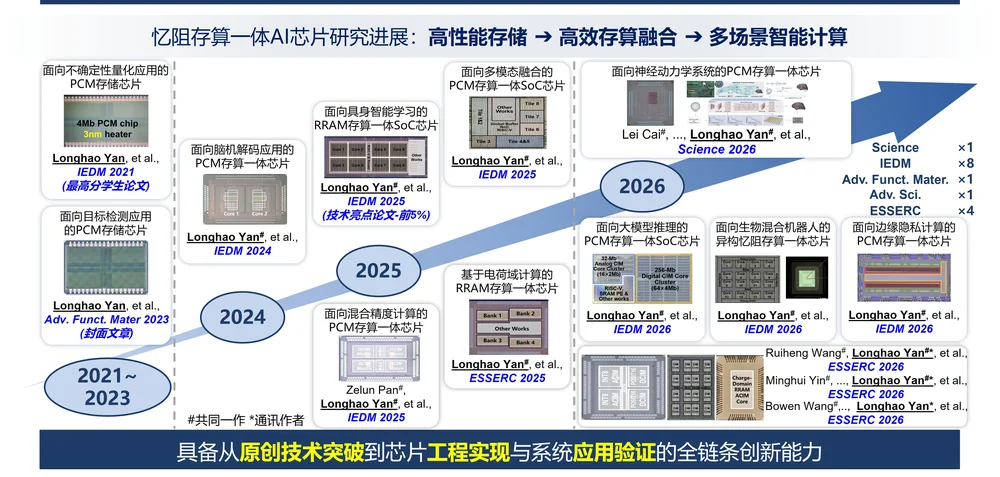
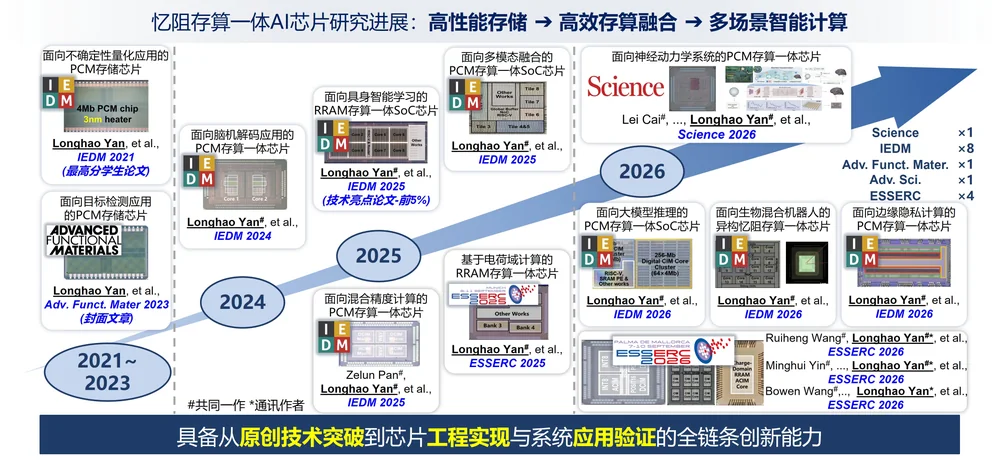
Deploy updated research progress graphic

diff --git a/index.html b/index.html
@@ -143,7 +143,7 @@
           <div class="about-more" id="about-more" hidden>
             <p data-i18n="aboutParagraph2">相关研究成果持续获得学术界和工业界认可。本人在微电子领域旗舰会议 IEDM 上以第一作者（含共同）发表或已接收 8 篇论文，获选 Top Ranked Student Paper（IEDM 2021）、Technical Highlight（IEDM 2025）和 Best Paper Award Finalist（ICTA 2025）。《科学》杂志高度评价神经动力学工作“代表了一种物理驱动计算的理念转变”（Science 2026）。相关合作工作入选智源人工智能研究院发布的“2020 年人工智能十大进展”（IEDM 2020），被《Nature Reviews Electrical Engineering》权威综述列为存内计算硬件感知神经架构搜索的代表性框架（Sci. China Inf. Sci. 2021），被 IBM Research &amp; IEEE Fellow 的 Abu Sebastian 教授列为存内动力学计算的典型技术案例（Adv. Mater. 2022）。与华为合作研究成果获得华为计算产品线最佳技术合作奖（MICRO 2024）。</p>
             <figure class="about-progress">
-              <img data-about-progress-image data-src="assets/images/about/research-progress.webp?v=2" data-src-mobile="assets/images/about/research-progress-1000.webp?v=2" alt="忆阻存算一体 AI 芯片研究进展" data-i18n-alt="aboutProgressAlt" width="2000" height="954" loading="lazy" decoding="async">
+              <img data-about-progress-image data-src="assets/images/about/research-progress.webp?v=3" data-src-mobile="assets/images/about/research-progress-1000.webp?v=3" alt="忆阻存算一体 AI 芯片研究进展" data-i18n-alt="aboutProgressAlt" width="2000" height="925" loading="lazy" decoding="async">
             </figure>
           </div>
           <button class="about-toggle" type="button" aria-expanded="false" aria-controls="about-more">
